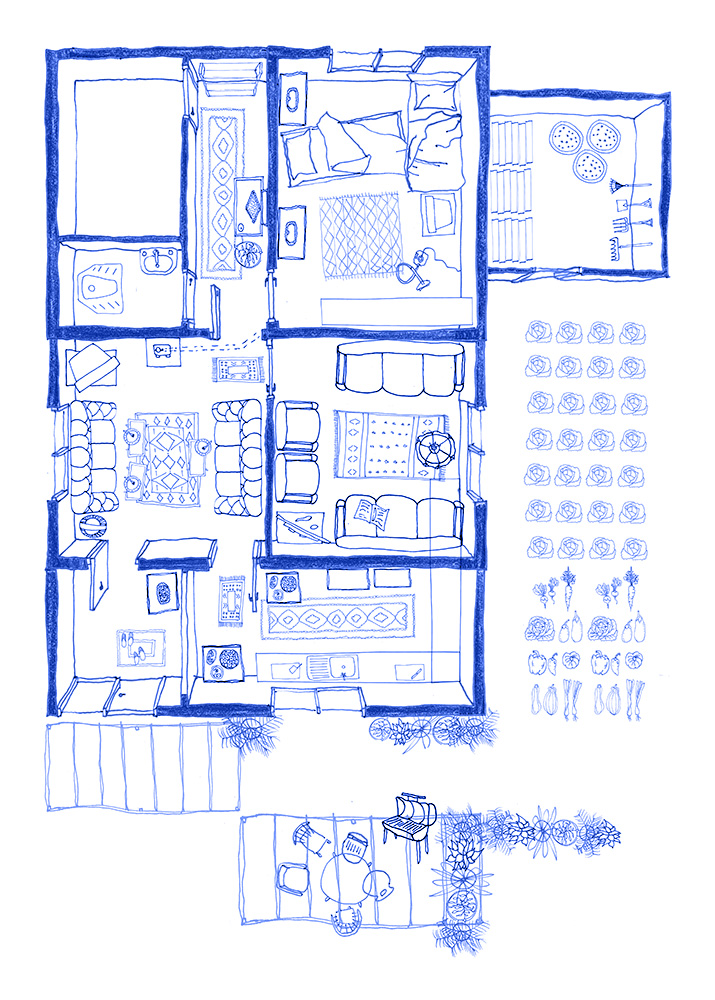
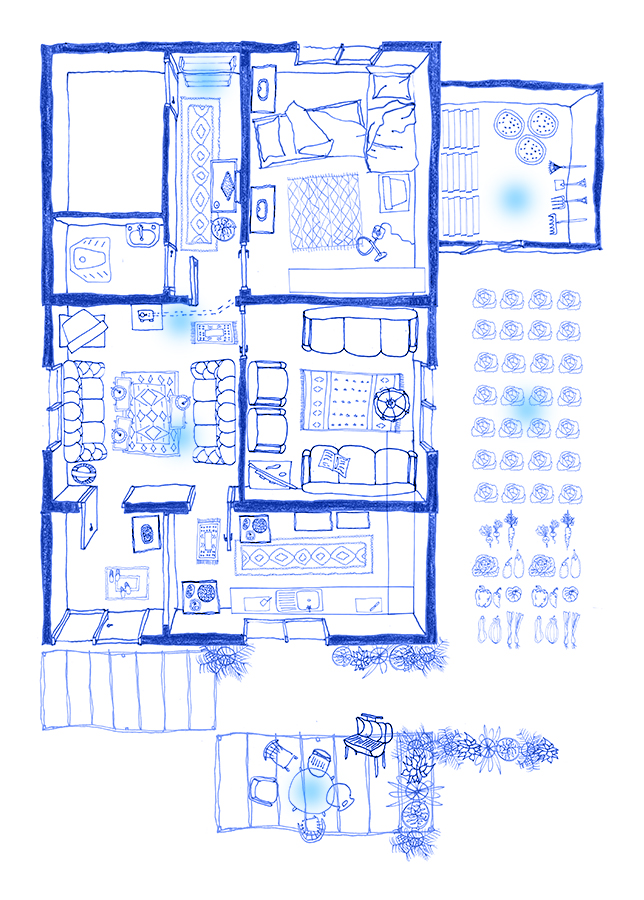
Code updates

diff --git a/assets/scripts/functions.js b/assets/scripts/functions.js
@@ -11,14 +11,132 @@ function addMouseOverEvent(e) {
     showElement("cabbage_popover")
   } else if (hoveredItemId === "bookshelf") {
     showElement("bookshelf_popover")
-  } else if (hoveredItemId === "gecekondu_image"){
+  } else if (hoveredItemId === "stove") {
+    showElement("stove_popover")
+  } else if (hoveredItemId === "imece") {
+    showElement("imece_popover")
+  } else if (hoveredItemId === "collectivework") {
+    showElement("collectivework_popover")
+  } else if (hoveredItemId === "lacecurtain") {
+    showElement("lacecurtain_popover")
+  } else if (hoveredItemId === "dinnertable") {
+    showElement("dinnertable_popover")
+  } else if (hoveredItemId === "GK1") {
+    showElement("GK1_popover")
+  } else if (hoveredItemId === "GK2") {
+    showElement("GK2_popover")
+  } else if (hoveredItemId === "GK3") {
+    showElement("GK3_popover")
+  } else if (hoveredItemId === "GK4") {
+    showElement("GK4_popover")
+  } else if (hoveredItemId === "GK5") {
+    showElement("GK5_popover")
+  } else if (hoveredItemId === "GK6") {
+    showElement("GK6_popover")
+  } else if (hoveredItemId === "GK7") {
+    showElement("GK7_popover")
+  } else if (hoveredItemId === "GK8") {
+    showElement("GK8_popover")
+
+  } else if (hoveredItemId === "KH1") {
+    showElement("KH1_popover")
+  } else if (hoveredItemId === "KH2") {
+    showElement("KH2_popover")
+  } else if (hoveredItemId === "kahvetable") {
+    showElement("kahvetable_popover")
+  } else if (hoveredItemId === "playingokey") {
+    showElement("playingokey_popover")
+  } else if (hoveredItemId === "wallart") {
+    showElement("wallart_popover")
+
+  } else if (hoveredItemId === "explosion") {
+    showElement("explosion_popover")
+  } else if (hoveredItemId === "animals") {
+    showElement("animals_popover")
+  } else if (hoveredItemId === "shelfgarlic") {
+    showElement("shelfgarlic_popover")
+  } else if (hoveredItemId === "YS1") {
+    showElement("YS1_popover")
+  } else if (hoveredItemId === "YS2") {
+    showElement("YS2_popover")
+
+  } else if (hoveredItemId === "gecekondu_image") {
     showElement("gecekondu_description")
+      } else if (hoveredItemId === "kahve_image"){
+    showElement("kahve_description")
+  } else if (hoveredItemId === "yap_sat_image"){
+    showElement("yap_sat_description")
+  } else if (hoveredItemId === "altin_gunu_image"){
+    showElement("altin_gunu_description")
   }
   e.stopPropagation();
 }
 
 function addMouseOutEvent(e) {
   var hoveredItemId = e.target.id;
+
+  if (hoveredItemId === "cabbage") {
+    hideElement("cabbage_popover")
+  } else if (hoveredItemId === "bookshelf") {
+    hideElement("bookshelf_popover")
+  } else if (hoveredItemId === "stove") {
+    hideElement("stove_popover")
+  } else if (hoveredItemId === "imece") {
+    hideElement("imece_popover")
+  } else if (hoveredItemId === "collectivework") {
+    hideElement("collectivework_popover")
+  } else if (hoveredItemId === "lacecurtain") {
+    hideElement("lacecurtain_popover")
+  } else if (hoveredItemId === "dinnertable") {
+    hideElement("dinnertable_popover")
+  } else if (hoveredItemId === "GK1") {
+    hideElement("GK1_popover")
+  } else if (hoveredItemId === "GK2") {
+    hideElement("GK2_popover")
+  } else if (hoveredItemId === "GK3") {
+    hideElement("GK3_popover")
+  } else if (hoveredItemId === "GK4") {
+    hideElement("GK4_popover")
+  } else if (hoveredItemId === "GK5") {
+    hideElement("GK5_popover")
+  } else if (hoveredItemId === "GK6") {
+    hideElement("GK6_popover")
+  } else if (hoveredItemId === "GK7") {
+    hideElement("GK7_popover")
+  } else if (hoveredItemId === "GK8") {
+    hideElement("GK8_popover")
+
+  } else if (hoveredItemId === "KH1") {
+    hideElement("KH1_popover")
+  } else if (hoveredItemId === "KH2") {
+    hideElement("KH2_popover")
+  } else if (hoveredItemId === "kahvetable") {
+    hideElement("kahvetable_popover")
+  } else if (hoveredItemId === "playingokey") {
+    hideElement("playingokey_popover")
+  } else if (hoveredItemId === "wallart") {
+    hideElement("wallart_popover")
+
+  } else if (hoveredItemId === "explosion") {
+    hideElement("explosion_popover")
+  } else if (hoveredItemId === "animals") {
+    hideElement("animals_popover")
+  } else if (hoveredItemId === "shelfgarlic") {
+    hideElement("shelfgarlic_popover")
+  } else if (hoveredItemId === "YS1") {
+    hideElement("YS1_popover")
+  } else if (hoveredItemId === "YS2") {
+    hideElement("YS2_popover")
+
+  } else if (hoveredItemId === "gecekondu_image") {
+    hideElement("gecekondu_description")
+      } else if (hoveredItemId === "kahve_image"){
+    hideElement("kahve_description")
+  } else if (hoveredItemId === "yap_sat_image"){
+    hideElement("yap_sat_description")
+  } else if (hoveredItemId === "altin_gunu_image"){
+    hideElement("altin_gunu_description")
+  }
 
   if (hoveredItemId === "cabbage") {
     hideElement("cabbage_popover")

diff --git a/assets/scripts/gecekondu.js b/assets/scripts/gecekondu.js
@@ -1,2 +1,15 @@
 addEventListeners('cabbage');
 addEventListeners('bookshelf');
+addEventListeners('stove');
+addEventListeners('imece');
+addEventListeners('collectivework');
+addEventListeners('lacecurtain');
+addEventListeners('dinnertable');
+addEventListeners('GK1');
+addEventListeners('GK2');
+addEventListeners('GK3');
+addEventListeners('GK4');
+addEventListeners('GK5');
+addEventListeners('GK6');
+addEventListeners('GK7');
+addEventListeners('GK8');

diff --git a/assets/scripts/yap_sat.js b/assets/scripts/yap_sat.js
@@ -1,0 +1,6 @@
+addEventListeners('explosion');
+addEventListeners('animals');
+addEventListeners('shelfgarlic');
+addEventListeners('YS1');
+addEventListeners('YS2');
+

diff --git a/assets/scripts/kahve.js b/assets/scripts/kahve.js
@@ -1,0 +1,5 @@
+addEventListeners('KH1');
+addEventListeners('KH2');
+addEventListeners('kahvetable');
+addEventListeners('playingokey');
+addEventListeners('wallart');

diff --git a/assets/scripts/altin_gun.js b/assets/scripts/altin_gun.js
@@ -1,0 +1,5 @@
+addEventListeners('');
+addEventListeners('');
+
+
+
